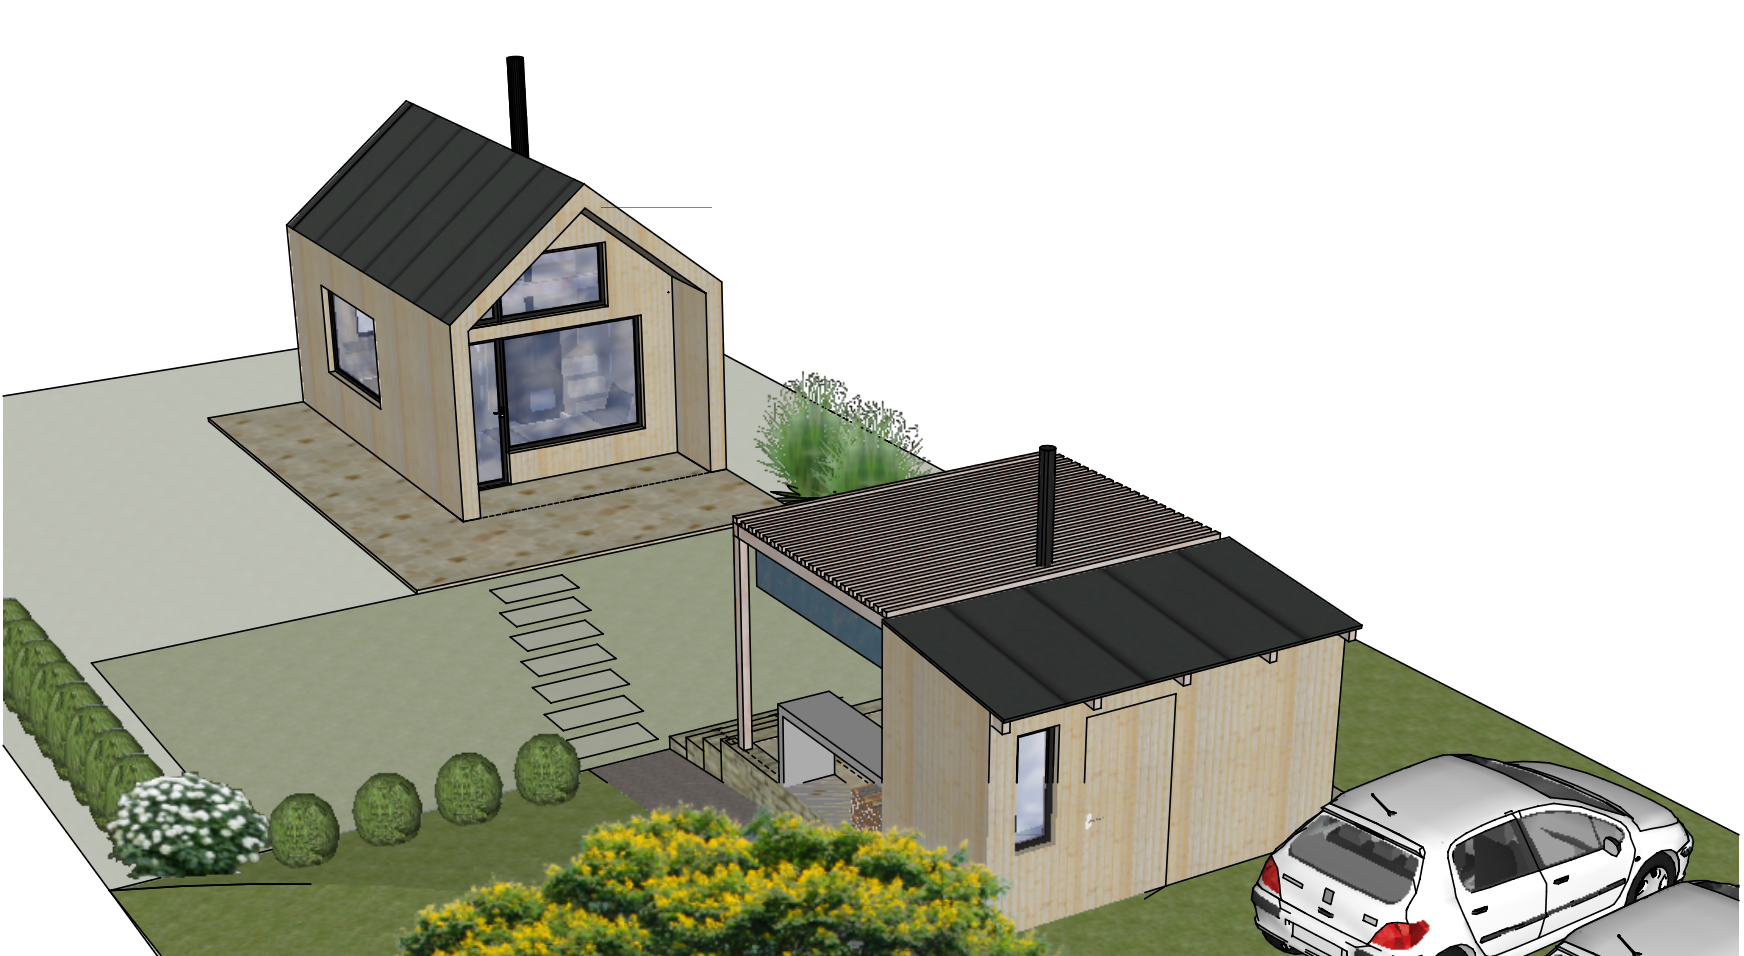
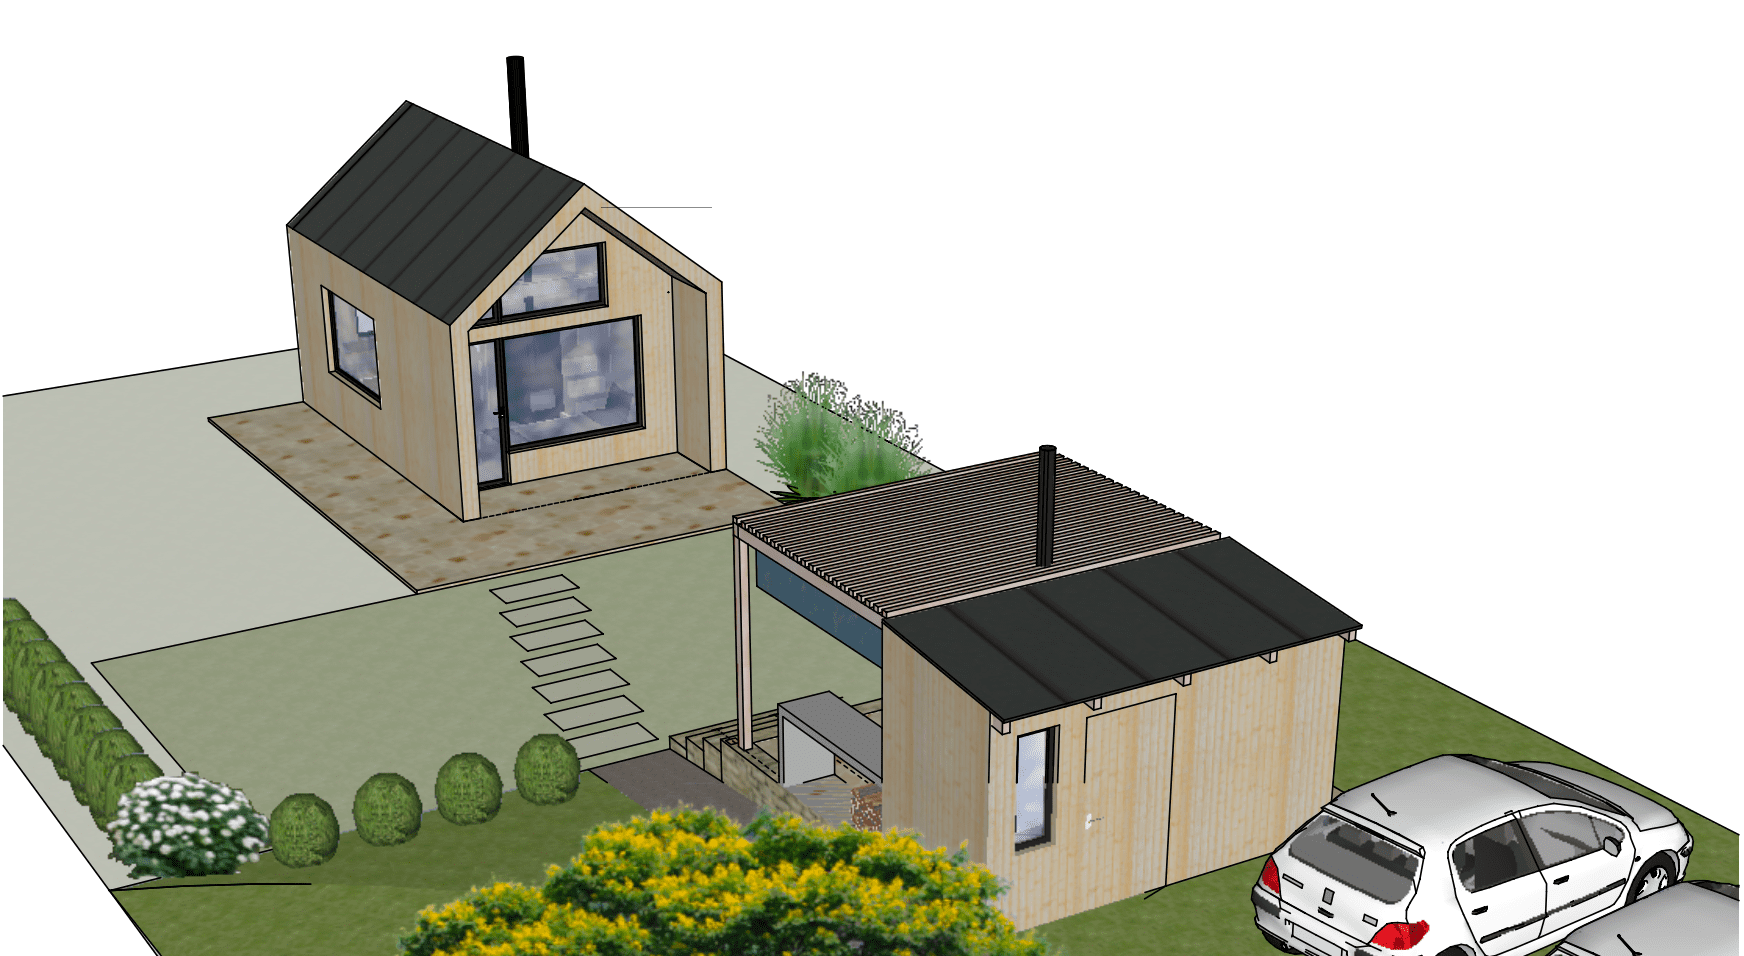
resized pciture, contact page finished

diff --git a/style.css b/style.css
@@ -267,13 +267,11 @@ aside a:hover #back_arrow::before, aside a:active #back_arrow::before, aside a:f
     width: 125px;
     justify-self: center;
 }
-
-
-
 #tiny_house{
    width: 250px;
    height: auto;
 }
+
 .item ul{
     grid-area: 2/2;
     font-size:calc(1.5vmin + 0.2em);
@@ -295,7 +293,11 @@ aside a:hover #back_arrow::before, aside a:active #back_arrow::before, aside a:f
     margin: 20px;
     padding: 10px;
     background-color: #ebedee;
-    border-radius: 25px; 
+    border-radius: 10px; 
+}
+#contact_list img{
+    height: auto;
+    width: 60px;
 }
 
 .arrow{
@@ -376,6 +378,12 @@ footer a{
     .item .logo{
         align-items: center;
     }
+    #contact_list a{
+        margin: 10px;
+        padding: 10px;
+        background-color: #ebedee;
+        border-radius: 10px; 
+    }
     .container{
         display: grid;
         height: 100vh;
@@ -416,8 +424,8 @@ footer a{
 		transition: .2s ease;
 		display: block;
 		transform-origin: 100% 0;
-}
-#back_arrow::after{
+    }
+    #back_arrow::after{
         content: '';
 		float: left;
 		position: relative;
@@ -429,7 +437,7 @@ footer a{
 		border-color: #7a7c7d;
 		transform-origin: 100% 0;
 		transition:.2s ease;
-}
+    }
 }
 
 @media only screen and (max-width:364px){

diff --git a/work.html b/work.html
@@ -24,7 +24,7 @@
                 <h1>Work</h1>
             <div class="content">
             <div class="item">
-                <div class="logo"><img src="./img/RAW.F.png" alt="Logo VSE"></div>
+                <div class="logo"><img src="./img/RAW.F.png" alt="Logo Raiffeisenbank"></div>
                 <h2>Raiffeisenbank ČR</h2>
                 <ul>
                     <li>Data analyst</li>
@@ -34,7 +34,7 @@
                 </ul>
             </div>
             <div class="item">
-               <div class="logo"><img src="./img/sazka_logo_rgb.png" alt="Logo CVUT"></div>
+               <div class="logo"><img src="./img/sazka_logo_rgb.png" alt="Logo SAZKA"></div>
                     <h2>Sazka</h2>
                     <ul>
                         <li>Software tester</li>

diff --git a/personal.html b/personal.html
@@ -34,7 +34,7 @@
                     <div class="item">
                         <h2>First version of a landig page</h2>
                         <p>About 2 years ago I made first attemp to create my own ladning page, but without proper knowelge of HTML and CSS.<br>
-                        Since the web page was not usefull, it is deleted forever and replace by this website you are currently visiting.</p>
+                        Since the web page was not usefull, it is deleted forever and replaced by this website, you are currently visiting.</p>
                     </div>
                 </div>
                 <div class="arrow"></div>

diff --git a/contact.html b/contact.html
@@ -25,8 +25,8 @@
             <div class="content">
                 <div class="item">
                     <div id="contact_list">
-                        <a href="https://www.linkedin.com/in/lubor-zoufal/"><img src="./img/LI-In-Bug.png"></a>
-                        <a href=""><img src="./img/Twitter_logo_PNG6.png"></a>
+                        <a href="https://www.linkedin.com/in/lubor-zoufal/"><img src="./img/linkedin.png"></a>
+                        <a href="https://twitter.com/ZoufalLuborJR"><img src="./img/twitter.png"></a>
                     </div>
                 </div>
             </div>
